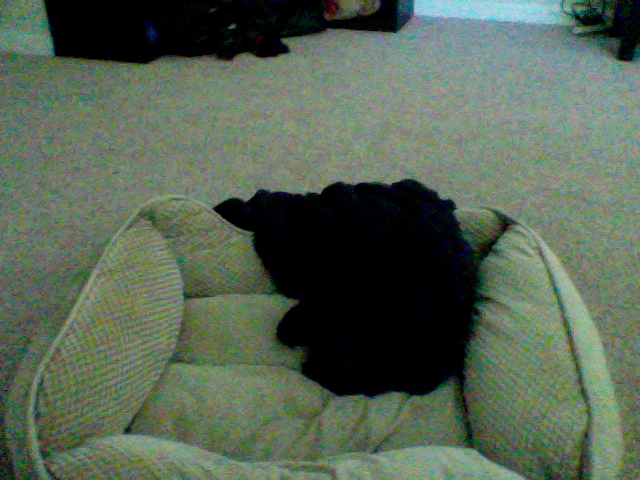
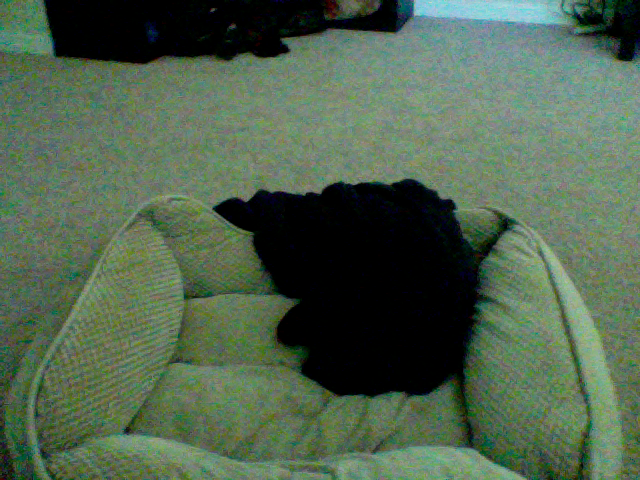
update at Month05Day08Time17:22

diff --git a/index.html b/index.html
@@ -39,7 +39,7 @@
       <!-- Example row of columns -->
       <div class="row">
         <div class="col-md-4">
-	<p>This picture was updated at Month05Day08Time17:21</p>
+	<p>This picture was updated at Month05Day08Time17:22</p>
 		<img src="8_pic.png" />
         </div>
       </div>
